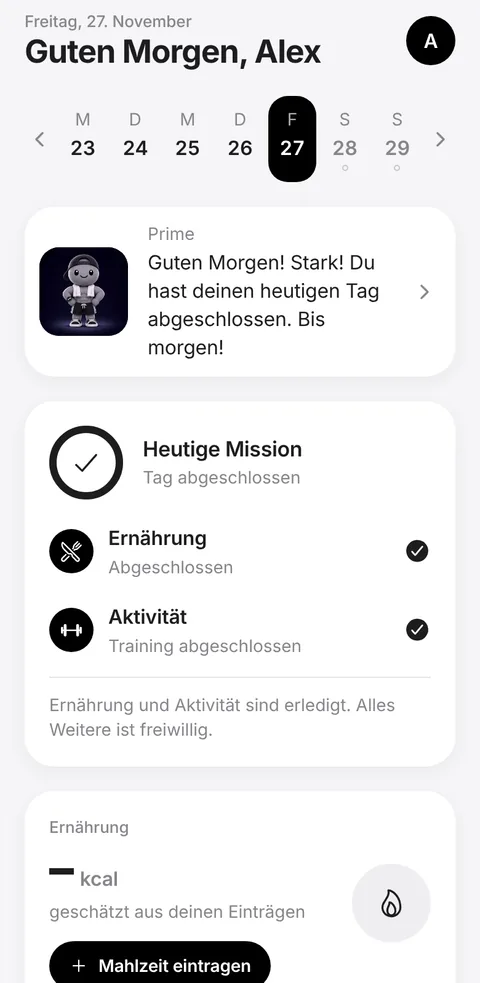
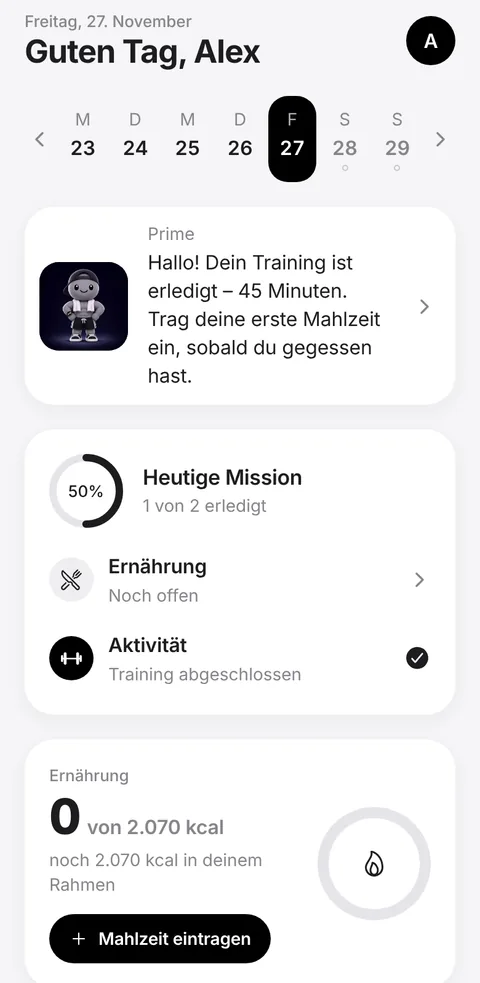
Onboarding: live app previews and documentation
- Welcome previews replaced by real screens from a live run against the beta backend
- docs/ONBOARDING.md: flow, plan rules, data handling, tests run, what remains for a device test

Claude-Session: https://claude.ai/code/session_01TddEB5tYD1QEbEnM4WoPb9

diff --git a/docs/ONBOARDING.md b/docs/ONBOARDING.md
@@ -1,0 +1,84 @@
+# PrimeMe AI – Onboarding
+
+Code: `src/features/onboarding/flow/`, eine Route: `src/app/(onboarding)/welcome.tsx`. Plan-Logik: `src/domain/plan.ts` (getestet).
+
+## Ablauf (29 Bildschirme; Referenz = Cal-AI-Screenshot-Nummer)
+
+| # | Schritt | Ref. | Hinweis |
+| --- | --- | --- | --- |
+| 1 | Welcome | 01 | Echte PrimeMe-Screens im Phone-Mockup, als „Beispielansicht“ gekennzeichnet; Sprache, Anmelden |
+| 2 | Name | – | für Prime und das Profil (nötig) |
+| 3 | Körperangabe für die Berechnung | 02 | weiblich / männlich / nicht angeben; erklärt, dass es nicht um Identität geht; ohne Angabe **kein** Kalorienrahmen |
+| 4 | Workouts pro Woche | 03 | bisherige Aktivität, keine Vorgabe |
+| 5 | Geburtsdatum | 04 | Wheel-Picker, Reihenfolge je Sprache; unter 18 → Hinweisseite; gespeichert wird nur das Geburtsjahr |
+| 6 | Herkunft | 05 | freiwillig, nur eigene Statistik |
+| 7 | Andere Apps | 06 | Ja / Nein |
+| 8 | Kleine Schritte | 07 | eigene Grafik, keine Statistiken |
+| 9 | Größe | 08 | Wheel-Picker cm / ft in, alternativ Wert eingeben |
+| 10 | Gewicht | 09 | horizontale Skala 0,1 kg / 0,2 lbs, Einheitenwechsel ohne Wertverlust, alternativ Wert eingeben |
+| 11 | Trainer / Ernährungsberatung | 10 | Ja / Nein |
+| 12 | Ziel | 11 | Abnehmen, Gewicht halten, Fitter werden (Muskelaufbau erst, wenn unterstützt) |
+| 13 | Zielgewicht | 12 | nur bei „Abnehmen“; muss unter dem aktuellen Gewicht liegen; unter BMI 18,5 nicht möglich; Hinweis bei > 30 % |
+| 14 | Zielbotschaft | 13 | tatsächliche Differenz, keine Garantie |
+| 15 | Tempo | 14 | Behutsam / Ausgewogen / Individuell; Sicherheitsgrenzen; Orientierung als Spanne |
+| 16 | Prime als Begleiter | 15 | echte Funktionen, Prime-Bild |
+| 17 | Herausforderungen | 16 | Mehrfachauswahl, freiwillig |
+| 18 | Ernährungsform | 17 | Einfachauswahl |
+| 19 | Besondere Anforderungen | 17 | Halal, laktosefrei, glutenfrei, Nussallergie – eigener kompakter Schritt |
+| 20 | Persönliche Motivation | 18 | Mehrfachauswahl |
+| 21 | Jeder Schritt zählt | 19 | Gewohnheits-Meilensteine, als Illustration gekennzeichnet |
+| 22 | Danke | 20 | Prime (Daumen hoch), Datenschutz-Hinweis, **freiwillige** Einwilligung für Primes Datenzugriff |
+| 23 | Plan wird erstellt | 21 | echte Rechenschritte, ca. 2 s, kein „metabolisches Alter“ |
+| 24 | Plan | 22 | Ziel, Start-/Zielgewicht, Orientierung als Schätzung, „Angaben bearbeiten“ |
+| 25 | Tägliche Empfehlung | 22 | kcal + Makros + Wasser; ohne Körperangaben ehrlicher Hinweis statt Zahlen |
+| 26 | Alltag | 23–24 | Training, Ernährung, zwei Tagesaufgaben, Planen freiwillig; keine erfundenen Nutzerzahlen |
+| 27 | PrimeMe+ Beta | 25–27 | ersetzt die Abo-Seiten; nur sichtbar mit `EXPO_PUBLIC_BETA_ALL_USERS_PRO=1` |
+| 28 | Konto erstellen | – | E-Mail + Passwort, Sign in with Apple (iOS), „Anmelden“; Fehler in der App-Sprache; Antworten bleiben erhalten |
+| 29 | Willkommen | – | wartet auf die erste Synchronisierung, zeigt „PrimeMe+ Beta ist aktiv“, dann Dashboard |
+
+## Plan-Berechnung (`computePlan`)
+
+- **Energiebedarf:** Mifflin-St Jeor × Aktivitätsfaktor.
+  - Aktivitätsfaktor nach Workouts pro Woche: 0 → 1,2; 1–2 → 1,375; 3–5 → 1,55; 6+ → 1,725.
+- **Abnehmen:** Defizit nach Tempo (0,25 / 0,5 / 0,75 kg pro Woche), begrenzt auf:
+  - höchstens 25 % des Bedarfs;
+  - höchstens 1 % des Körpergewichts pro Woche;
+  - nie unter 1.200 kcal (weiblich) bzw. 1.500 kcal (männlich). Liegt der Bedarf selbst darunter, gibt es kein Defizit.
+  - Bei einem ungesunden Zielgewicht wird gar kein Defizit eingeplant.
+- **Makros:**
+  - Protein 1,6 g pro kg eines gesunden Referenzgewichts (höchstens BMI 25);
+  - Fett 30 % der Kalorien;
+  - Kohlenhydrate als Rest.
+- **Wasser:** 30 ml pro kg, begrenzt auf 1,5–3 l, als Richtwert.
+- **Fachliche Prüfung:** Alle Werte müssen vor einer kommerziellen Veröffentlichung von einer Ernährungsfachkraft geprüft werden.
+
+## Daten und Datenschutz
+
+- **Zwischenspeicherung:**
+  - Der Entwurf liegt verschlüsselt im iOS-Schlüsselbund bzw. Android-Keystore (`expo-secure-store`).
+  - Ein Neustart setzt beim letzten Schritt fort.
+  - Der Entwurf wird gelöscht, sobald ein Profil existiert.
+- **Keine KI vor dem Konto:** Vor der Registrierung gibt es keinen Server- und keinen KI-Aufruf. Der Plan wird lokal berechnet.
+- **Nach der Registrierung:**
+  1. Erst nach der ersten Synchronisierung des Kontos wird das Profil geschrieben.
+  2. Hat das Konto schon ein Profil, wird es nur geladen, nie überschrieben.
+- **Prime-Daten:** Prime nutzt die Antworten nur mit der freiwilligen Einwilligung (Profil → Datenschutz). Gewicht bleibt ausgeschlossen.
+- **Profil-Bearbeitung:** Änderungen unter Profil → Persönliche Daten / Ziele berechnen den Kalorienrahmen mit denselben Regeln neu.
+
+## Tests
+
+- **Jest:** `src/domain/plan.test.ts`, 9 Tests: Formel, Defizit-Grenzen, Untergrenze, ungesundes Ziel, fehlende Körperdaten, Makros, Wasser, 18+-Prüfung auf den Tag.
+- **Browser, 390 × 844, Deutsch:** alle 29 Schritte durchlaufen; Screenshots verglichen.
+- **Browser, 375 × 667:** Englisch, Türkisch, Spanisch, Französisch; keine abgeschnittenen Texte.
+- **Live gegen das Beta-Backend**, neues Konto, danach in der App gelöscht:
+  - Onboarding → Registrierung → erste Synchronisierung → „PrimeMe+ Beta ist aktiv“ → Dashboard mit persönlichem Kalorienrahmen;
+  - echter Prime-Chat mit Vorschlägen und Speichern;
+  - Training eintragen;
+  - Konto-Löschung.
+
+## Noch auf einem echten iPhone zu testen
+
+- Haptik, Schwung der Picker und Skala, Tastatur bei Name und Konto.
+- Sign in with Apple, Wiederaufnahme nach App-Neustart.
+- „Bewegung reduzieren“ und große Schriftgrößen.
+- Anzeige der WebP-Bilder.
